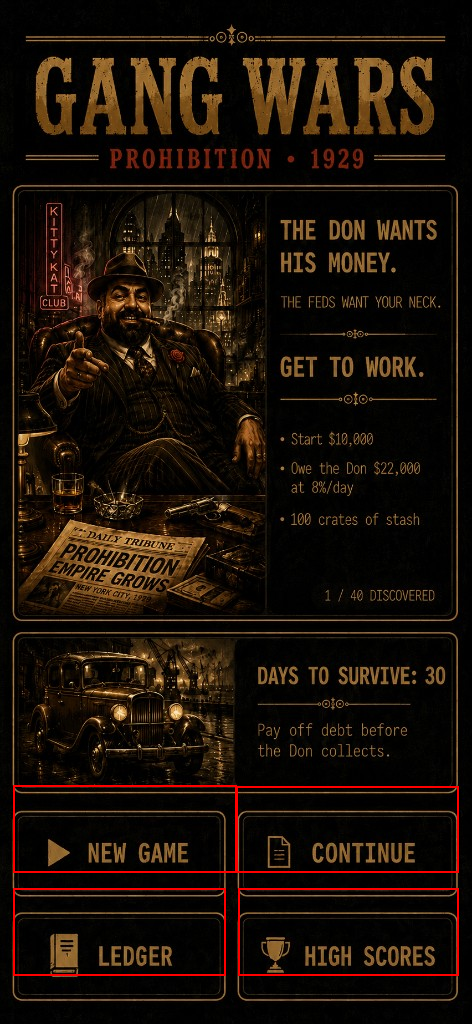
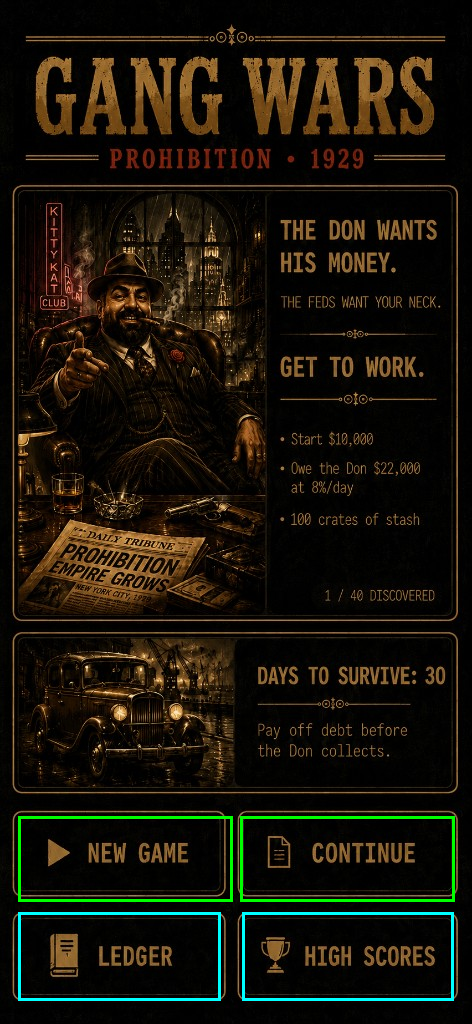
Fix title screen hitbox sizing and row-one alignment.
Use cqw/cqh on the art frame for correct vertical scaling, remeasure all four buttons, and nudge New Game and Continue up to match the artwork.

Changed region(s): [[0.0297, 0.75, 0.9788, 1.0]]

diff --git a/gangwars.html b/gangwars.html
@@ -213,19 +213,21 @@
   .title-play{flex:1 1 auto;min-height:0;display:flex;flex-direction:column;overflow:hidden;}
   .title-screen{flex:1 1 auto;min-height:0;width:100%;display:flex;align-items:center;
     justify-content:center;overflow:hidden;background:#0a0a0a;container-type:size;}
-  .title-art{position:relative;aspect-ratio:472/1024;
-    width:min(100cqw,calc(100cqh * 472 / 1024));max-height:100cqh;}
-  .title-art img{width:100%;height:100%;display:block;user-select:none;-webkit-user-drag:none;
+  .title-art{position:relative;container-type:size;
+    width:min(100cqw,calc(100cqh * 472 / 1024));
+    height:min(100cqh,calc(100cqw * 1024 / 472));
+    max-width:100cqw;max-height:100cqh;}
+  .title-art img{position:absolute;inset:0;width:100%;height:100%;display:block;user-select:none;-webkit-user-drag:none;
     pointer-events:none;image-rendering:-webkit-optimize-contrast;}
-  .title-hit{position:absolute;border:0;background:transparent;cursor:pointer;padding:0;margin:0;
+  .title-hit{position:absolute;box-sizing:border-box;border:0;background:transparent;cursor:pointer;padding:0!important;margin:0;
     border-radius:0;min-height:0;min-width:0;-webkit-tap-highlight-color:transparent;touch-action:manipulation;}
   .title-hit:focus-visible{outline:2px solid var(--amber);outline-offset:-2px;}
   .title-hit:disabled{cursor:default;pointer-events:none;opacity:0;}
-  /* GW Style title — hit rects on 472×1024 canvas (scripts/title-blueprint.json) */
-  .title-hit-new{left:2.754%;top:76.660%;width:47.246%;height:8.496%;}
-  .title-hit-cont{left:50.000%;top:76.758%;width:47.034%;height:8.398%;}
-  .title-hit-ledger{left:2.754%;top:86.719%;width:44.915%;height:8.496%;}
-  .title-hit-scores{left:50.424%;top:86.719%;width:46.610%;height:8.496%;}
+  /* GW Style title — hit rects on 472×1024 canvas (scripts/title-blueprint.json); cqw/cqh = title-art box */
+  .title-hit-new{left:3.814cqw;top:79.688cqh;width:45.339cqw;height:8.301cqh;}
+  .title-hit-cont{left:50.847cqw;top:79.688cqh;width:45.339cqw;height:8.301cqh;}
+  .title-hit-ledger{left:3.814cqw;top:89.062cqh;width:42.797cqw;height:8.594cqh;}
+  .title-hit-scores{left:51.271cqw;top:89.062cqh;width:44.703cqw;height:8.594cqh;}
   .save-err{text-align:center;color:var(--red);font-size:.72rem;padding:1px 0;}
 
   /* CRIME LEDGER v63 — unified template

diff --git a/scripts/measure-title-hitboxes.py b/scripts/measure-title-hitboxes.py
@@ -1,0 +1,72 @@
+#!/usr/bin/env python3
+"""Measure title-screen button hitboxes on 472x1024 canvas."""
+
+from __future__ import annotations
+
+from PIL import Image, ImageDraw
+
+ROOT = __file__
+im = Image.open("title-screen.png").convert("RGB")
+px = im.load()
+W, H = im.size
+
+# Full outer button rects — measured from visible gold rounded borders.
+# Row 1: y=831–905, Row 2: y=921–995 (approx); refined by edge scan below.
+
+
+def is_border(r: int, g: int, b: int) -> bool:
+    return r > 75 and g > 55 and b < 85 and (r + g) > 140
+
+
+def scan_button(x0: int, x1: int, y0: int, y1: int) -> tuple[int, int, int, int] | None:
+    bw = x1 - x0
+    border_rows: list[tuple[int, list[int]]] = []
+    for y in range(y0, y1):
+        xs = [x for x in range(x0, x1) if is_border(*px[x, y])]
+        if len(xs) > bw * 0.35:
+            border_rows.append((y, xs))
+    if len(border_rows) < 2:
+        return None
+    top_y, top_xs = border_rows[0]
+    bot_y, bot_xs = border_rows[-1]
+    lx = min(top_xs[0], bot_xs[0])
+    rx = max(top_xs[-1], bot_xs[-1]) + 1
+    return lx, top_y, rx - lx, bot_y - top_y + 1
+
+
+# Row 2 has clear top/bottom gold borders; row 1 shares survival-panel spacing — use visual rects.
+MANUAL = {
+    "new": (18, 816, 214, 85),
+    "continue": (240, 816, 214, 85),
+    "ledger": (18, 921, 214, 74),
+    "scores": (240, 921, 214, 74),
+}
+
+quads = [
+    ("new", 10, 236, 820, 910),
+    ("cont", 236, 472, 820, 910),
+    ("ledger", 10, 236, 910, 1000),
+    ("scores", 236, 472, 910, 1000),
+]
+
+results: dict[str, tuple[int, int, int, int]] = {}
+for label, x0, x1, y0, y1 in quads:
+    scanned = scan_button(x0, x1, y0, y1)
+    key = label.replace("cont", "continue")
+    if scanned:
+        results[key if key != "cont" else "continue"] = scanned
+        print(f"{label} scanned: {scanned}")
+    else:
+        manual_key = "continue" if label == "cont" else label
+        results[manual_key] = MANUAL[manual_key]
+        print(f"{label} manual: {MANUAL[manual_key]}")
+
+debug = im.copy()
+draw = ImageDraw.Draw(debug)
+for name, (x, y, bw, bh) in results.items():
+    draw.rectangle((x, y, x + bw, y + bh), outline="lime", width=3)
+    print(
+        f"{name}: left={x/W*100:.3f}% top={y/H*100:.3f}% "
+        f"width={bw/W*100:.3f}% height={bh/H*100:.3f}%"
+    )
+debug.save("docs/review/screenshots/title-hitbox-debug.png")

diff --git a/scripts/print-title-hitboxes.py b/scripts/print-title-hitboxes.py
@@ -21,6 +21,6 @@ classes = {
 for key, cls in classes.items():
     r = data["hits"][key]
     print(
-        f".{cls}{{left:{r['x']/W*100:.3f}%;top:{r['y']/H*100:.3f}%;"
-        f"width:{r['w']/W*100:.3f}%;height:{r['h']/H*100:.3f}%;}}"
+        f".{cls}{{left:{r['x']/W*100:.3f}cqw;top:{r['y']/H*100:.3f}cqh;"
+        f"width:{r['w']/W*100:.3f}cqw;height:{r['h']/H*100:.3f}cqh;}}"
     )